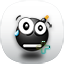
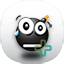
add waterbomb

Changed region(s): [[0.5312, 0.5938, 0.8125, 0.9062]]

diff --git a/full/qml/meego/checkin.js b/full/qml/meego/checkin.js
@@ -21,7 +21,7 @@ WorkerScript.onMessage = function(msg) {
         WorkerScript.sendMessage({ 'needBang': needBang, 'needNext': needNext, 'isMoved':isMoved })
     } else if(msg.action === 'touch'){
         var type = msg.model.get(msg.id).t
-        if(type === 3){
+        if(type >= 3){
             msg.model.set(msg.id, {t: 0, upD: msg.id - COL_COUNT, downD: msg.id+ COL_COUNT, leftD: msg.id-1,rightD: msg.id+1})
             WorkerScript.sendMessage({ 'needBang': true, 'needNext': false, 'isMoved': true})
         } else if (type > 0){
@@ -46,7 +46,7 @@ WorkerScript.onMessage = function(msg) {
             } else {
                 rand=getRandomInt(0,6+(msg.level-(msg.level%2))/2)
                 if(rand === 3)
-                    msg.model.set(i,{t: 3, upD:NULL, downD:NULL, rightD:NULL,leftD:NULL})
+                    msg.model.set(i,{t: 3, upD:NULL, downD:NULL, rightD:NULL,leftD:NULL, water:true})
                 else if(rand === 2 || rand === 1 || rand === 0)
                     msg.model.set(i,{t: 2, upD:NULL, downD:NULL, rightD:NULL,leftD:NULL})
                 else
@@ -72,12 +72,21 @@ function check(i,model){
             if(type === 0 ){
                 model.set(i,{downD: downD + COL_COUNT})
             } else if(type === 3) {
+                if(model.get(i).water)
+                    model.set(downD,{t: type-1})
+                else{
+                    model.set(downD,{t: 0,downD: downD,upD: downD,leftD: downD ,rightD: downD })
+                    needBang = true
+                    addBang(downD)
+                }
                 model.set(i,{downD: NULL})
-                model.set(downD,{t: 0,downD: downD,upD: downD,leftD: downD ,rightD: downD })
-                needBang = true
-                addBang(downD)
             } else {
-                model.set(downD,{t: type+1})
+                if(model.get(i).water){
+                    if(type !==1)
+                        model.set(downD,{t: type-1})
+                }
+                else
+                    model.set(downD,{t: type+1})
                 model.set(i,{downD: NULL})
             }
         } else {
@@ -90,14 +99,23 @@ function check(i,model){
             type = model.get(upD).t
             if(type === 0){
                 model.set(i,{upD: upD - COL_COUNT})
-            } else if(type === 3) {
+            } else if(type === 3 ) {
+                if(model.get(i).water)
+                    model.set(upD,{t: type-1})
+                else{
+                    model.set(upD,{t: 0,upD: upD - COL_COUNT,downD: upD + COL_COUNT,
+                                  leftD: upD - 1,rightD: upD + 1})
+                    needBang = true
+                    addBang(upD)
+                }
                 model.set(i,{upD: NULL})
-                model.set(upD,{t: 0,upD: upD - COL_COUNT,downD: upD + COL_COUNT,
-                              leftD: upD - 1,rightD: upD + 1})
-                needBang = true
-                addBang(upD)
             } else {
-                model.set(upD,{t: type+1})
+                if(model.get(i).water){
+                    if(type !==1)
+                        model.set(upD,{t: type-1})
+                }
+                else
+                    model.set(upD,{t: type+1})
                 model.set(i,{upD: NULL})
             }
         } else {
@@ -111,13 +129,22 @@ function check(i,model){
             if(type === 0){
                 model.set(i,{leftD: leftD - 1})
             } else if(type === 3 ) {
+                if(model.get(i).water)
+                    model.set(leftD,{t: type-1})
+                else{
+                    model.set(leftD, {t: 0, upD: leftD - COL_COUNT,downD: leftD + COL_COUNT,
+                                  leftD: leftD - 1, rightD: leftD + 1})
+                    needBang = true
+                    addBang(leftD)
+                }
                 model.set(i,{leftD: NULL})
-                model.set(leftD, {t: 0, upD: leftD - COL_COUNT,downD: leftD + COL_COUNT,
-                              leftD: leftD - 1, rightD: leftD + 1})
-                needBang = true
-                addBang(leftD)
             } else {
-                model.set(leftD,{t: type+1})
+                if(model.get(i).water){
+                    if(type !==1)
+                        model.set(leftD,{t: type-1})
+                }
+                else
+                    model.set(leftD,{t: type+1})
                 model.set(i,{leftD: NULL})
             }
         } else {
@@ -131,12 +158,21 @@ function check(i,model){
             if(type === 0){
                 model.set(i,{rightD: rightD + 1})
             } else if(type === 3 ) {
+                if(model.get(i).water)
+                    model.set(rightD,{t: type-1})
+                else{
+                    model.set(rightD, {t: 0,upD: rightD,downD: rightD,leftD: rightD,rightD: rightD})
+                    needBang = true
+                    addBang(rightD)
+                }
                 model.set(i,{rightD: NULL})
-                model.set(rightD, {t: 0,upD: rightD,downD: rightD,leftD: rightD,rightD: rightD})
-                needBang = true
-                addBang(rightD)
             } else {
-                model.set(rightD,{t: type+1})
+                if(model.get(i).water){
+                    if(type !==1)
+                        model.set(rightD,{t: type-1})
+                }
+                else
+                    model.set(rightD,{t: type+1})
                 model.set(i,{rightD: NULL})
             }
         } else {

diff --git a/full/qml/meego/Cell.qml b/full/qml/meego/Cell.qml
@@ -14,7 +14,9 @@ Rectangle {
 
     Image {
         id: bombIcon
-        source: if(t === 1){
+        source: if(water){
+                    return "images/waterbomb.png"
+                } else if(t === 1){
                     return "images/bomb.png"
                 } else if( t === 2) {
                     return "images/bomb-bandage.png"
@@ -23,25 +25,10 @@ Rectangle {
                 } else
                     return ""
         anchors.centerIn: parent
-        height: /*if(t === 1){
-                    return 7*parent.width/12
-                } else if( t === 2) {
-                    return 4*parent.width/5
-                } else if(t === 3){
-                    return*/ parent.width/*
-                } else
-                    return 0*/
-
+        height: parent.width
         width: height
 
     }
-
-    /*AnimatedImage {
-        id : bombs
-        source: "images/bombs.gif"
-        paused: true
-        //visible: false
-    }*/
     AnimatedImage {
         id : bang;
         source: "images/bang2.gif"
@@ -58,7 +45,7 @@ Rectangle {
 
     states: [State {
                 name: "big"
-                when: (t === 3)
+                when: (t === 3 || t === 4)
                 PropertyChanges {target: bombIcon; height: cellMain.height}
                 PropertyChanges {target: bang; currentFrame: 0}
                 PropertyChanges {target: bang; paused: true}

diff --git a/full/qml/meego/GamePlay.qml b/full/qml/meego/GamePlay.qml
@@ -231,7 +231,7 @@ Page {
 
     Component.onCompleted: {
         for(var i=0; i<UI.COL_COUNT*UI.ROW_COUNT; i++)
-            gameModel.model.append({t: 0, upD:UI.NULL, downD:UI.NULL, rightD:UI.NULL,leftD:UI.NULL, audio: gameModel.getRandomInt(0,1)})
+            gameModel.model.append({t: 0, upD:UI.NULL, downD:UI.NULL, rightD:UI.NULL,leftD:UI.NULL, water: false})
     }
     onStatusChanged: {
         if(gamePlay.status === PageStatus.Activating)

diff --git a/full/qml/meego/MiniDrops.qml b/full/qml/meego/MiniDrops.qml
@@ -4,7 +4,7 @@ import "UIConstants.js" as UI
 
 Item {
     id:miniItems
-    property string source:"images/mini-fire.png"
+    property string source: water ? "images/mini-drop.png" : "images/mini-fire.png"
     property int w: 20
     property int h: 20
     property int sec: 40
